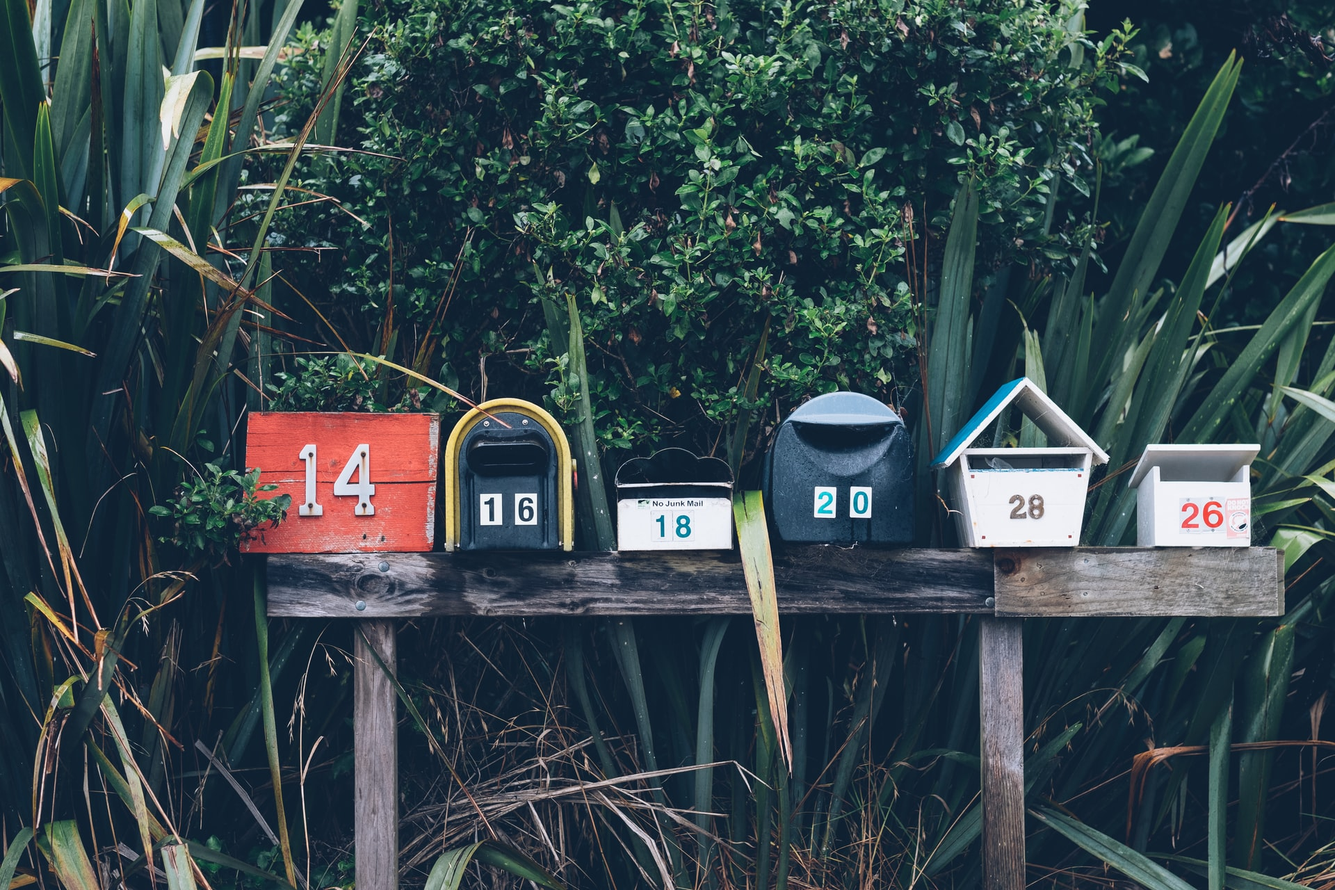
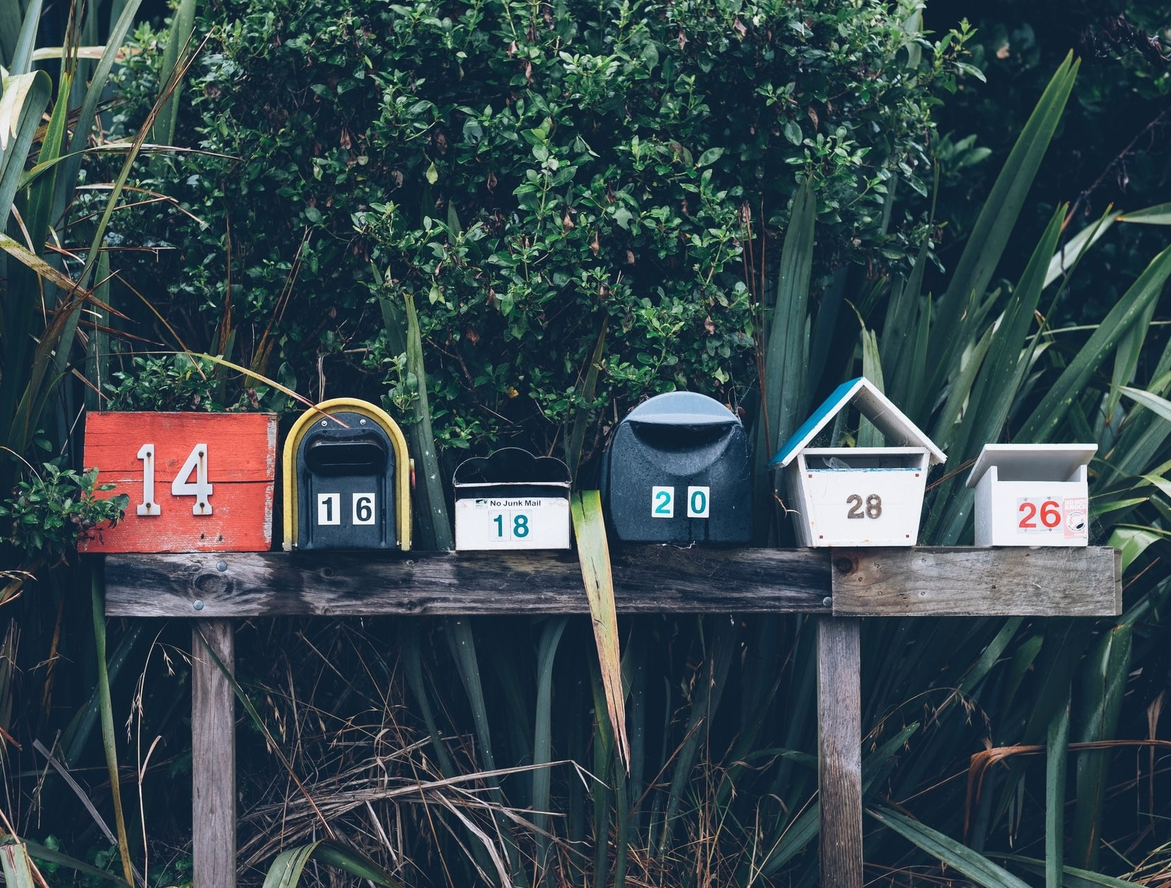
Modified contact section to beautify and add note for formspree
1.) Added grey background to the entire contact section
2.) Cropped image to have lesses width
3.) Added the note about redirection to formspree

diff --git a/index.html b/index.html
@@ -183,7 +183,7 @@
 						<div class="cell">
 							<img id="contact-image" src="./images/contact.jpg"/>
 						</div>
-						<div class="cell" id="contact-right">
+						<div class="cell">
 							<div id="contact-heading">Get in touch!!</div>
 							
 							<form id="contact-form" method="POST" action="https://formspree.io/f/mjvjgory">
@@ -198,6 +198,7 @@
 								</div>
 								<div class="form-group">
 									<button type="submit" class="button">Submit</button>
+								<div><i>You will be redirected to formspree.io for reCaptcha verification</i></div>
 								</div>
 							</form>
 						</div>

diff --git a/css/style.css b/css/style.css
@@ -259,12 +259,12 @@ a {
 /* Contact Section */
 /****************************/
 
-#contact-image {
-	max-width: 100%;
+#contact {
+	background:rgb(240, 240, 240);
 }
 
-#contact-right {
-	background:rgb(240, 240, 240);
+#contact-image {
+	max-width: 100%;
 }
 
 #contact-heading {
